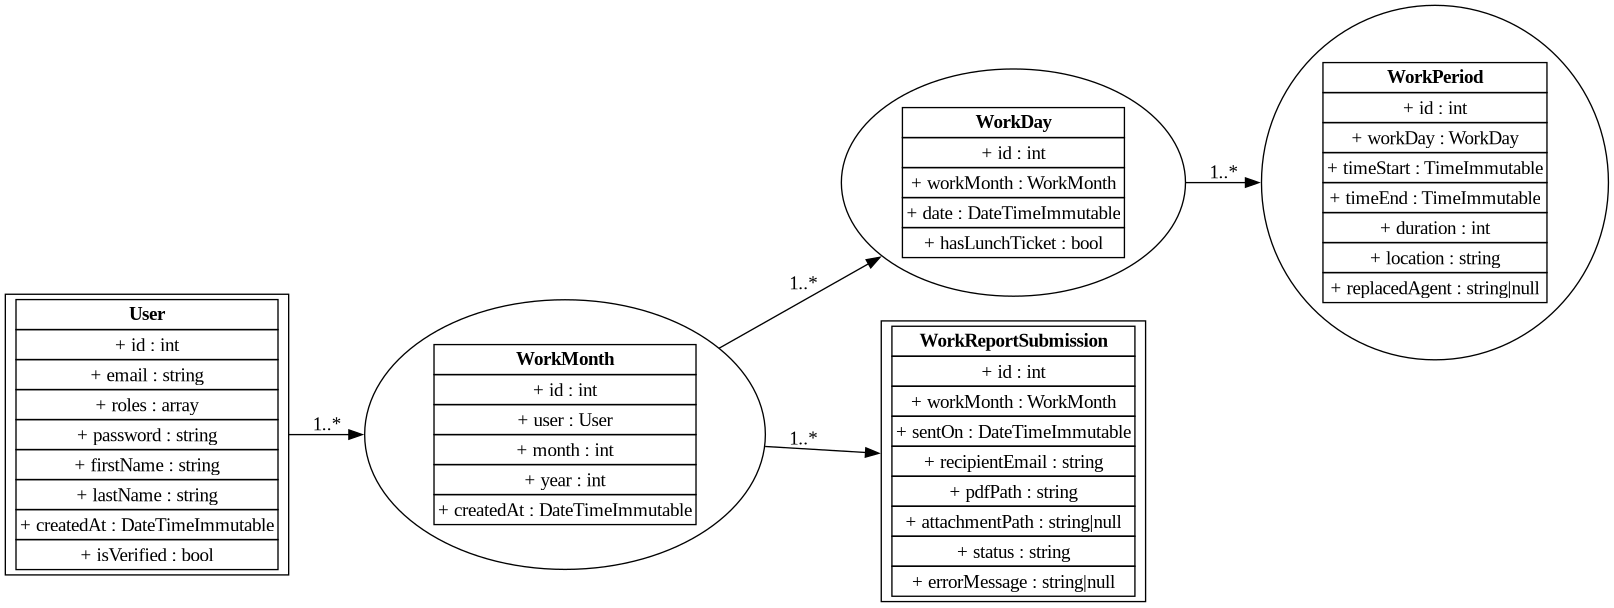
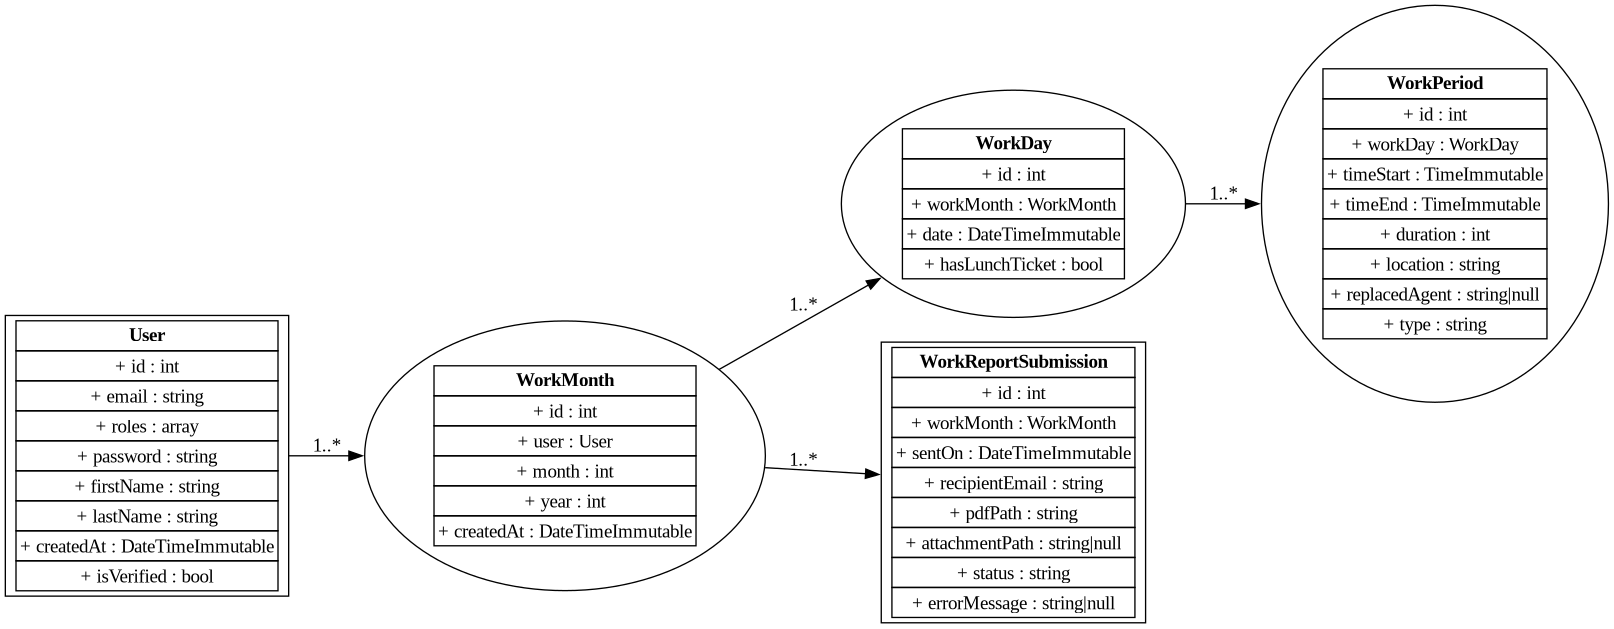
docs(uml): update TimeBoard schema with type field in WorkPeriod
- added `type` attribute to WorkPeriod entity
- introduced WorkPeriodType enum (work / meeting_training)
- updated relations in the UML diagram

diff --git a/docs/uml/timeboard-schema.py b/docs/uml/timeboard-schema.py
@@ -46,6 +46,7 @@ dot.node('WorkPeriod', '''<<TABLE BORDER="0" CELLBORDER="1" CELLSPACING="0">
 <TR><TD>+ duration : int</TD></TR>
 <TR><TD>+ location : string</TD></TR>
 <TR><TD>+ replacedAgent : string&#124;null</TD></TR>
+<TR><TD>+ type : string</TD></TR>
 </TABLE>>''')
 
 # WorkReportSubmission entity (avec échappement de | en &#124; et sans quotes dans le default)
